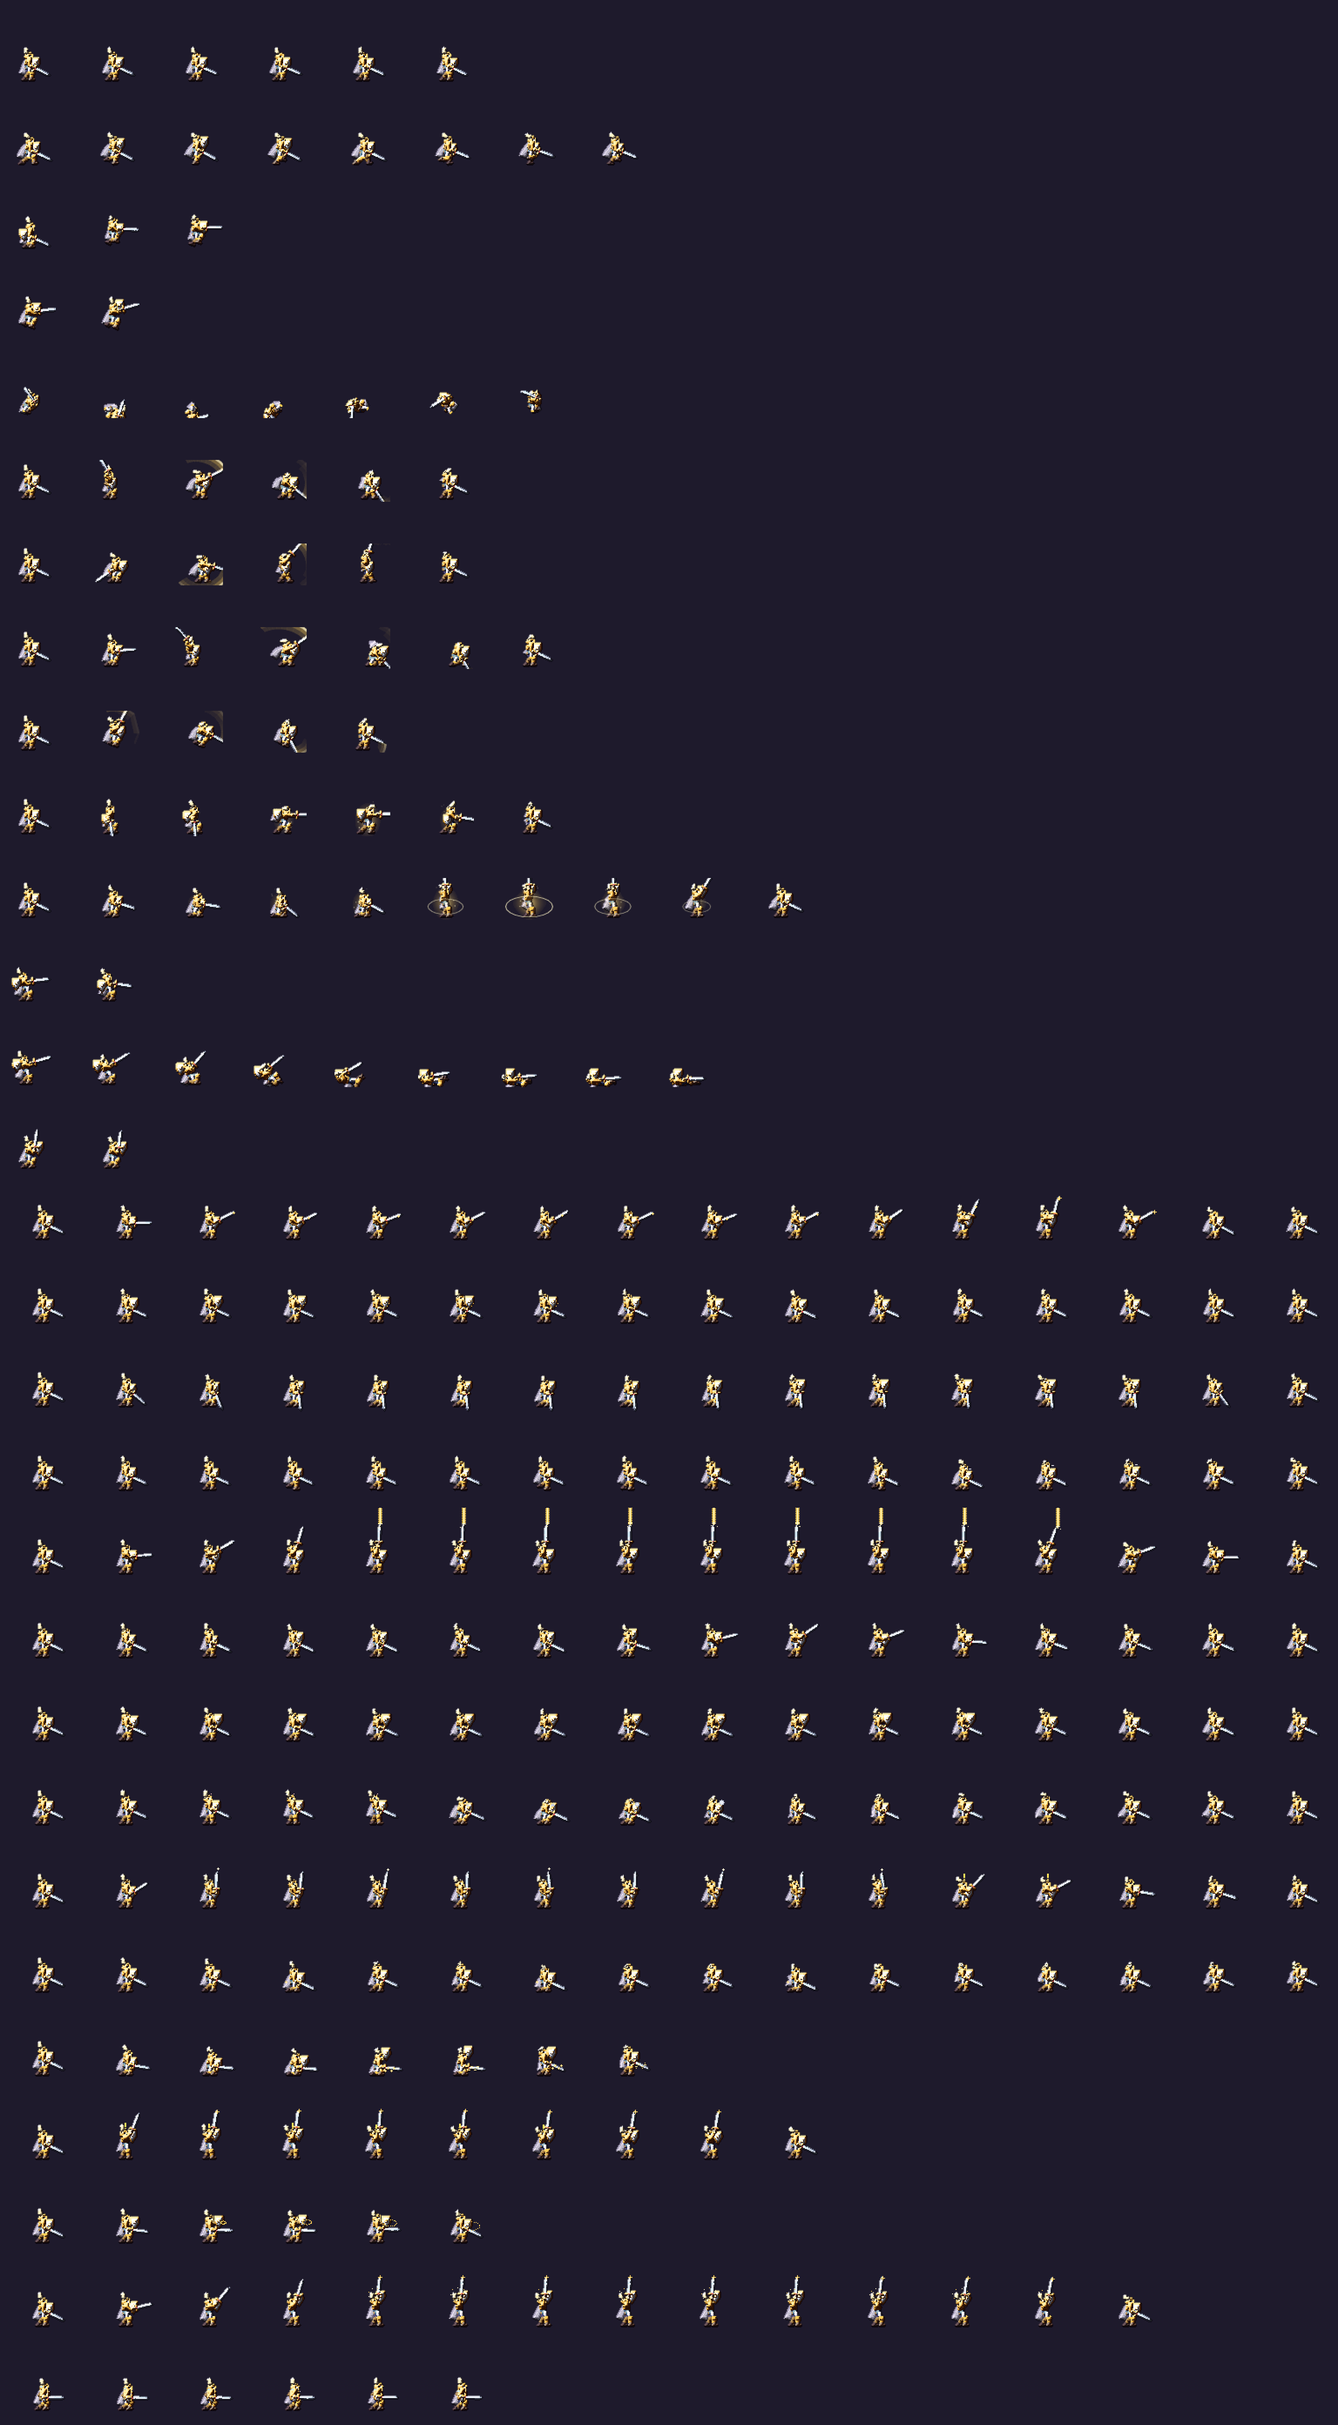
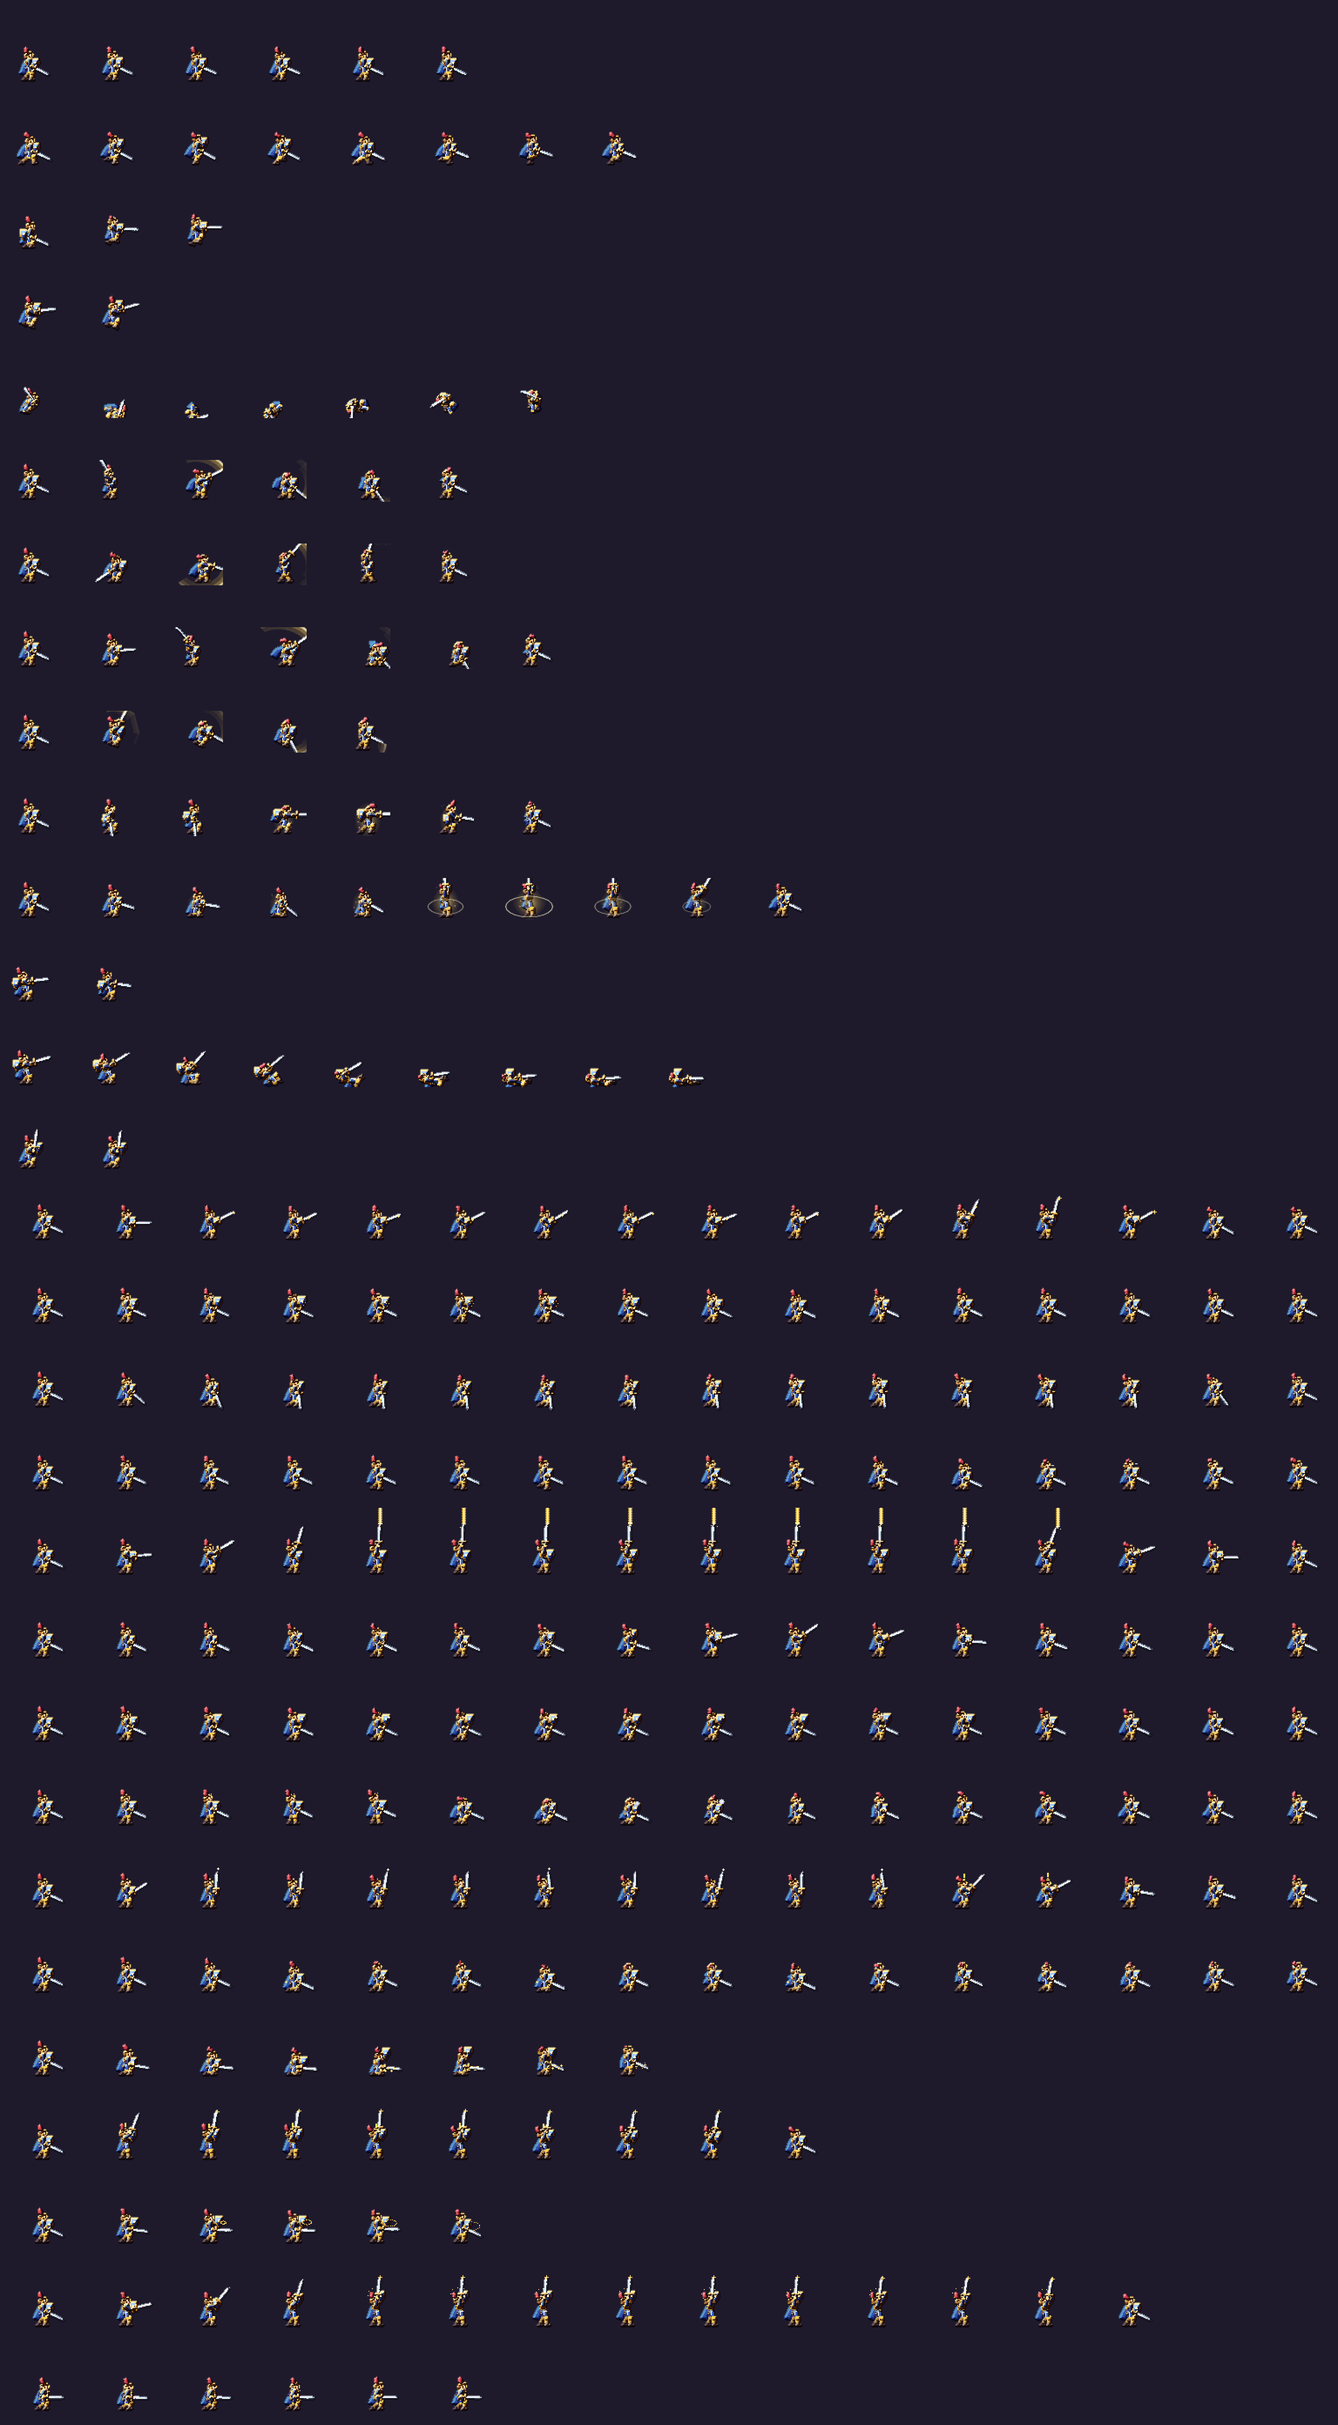
Pixel art fase 3 v2: Paladin recompuesto (capa y escudo azules, sayo marino, cara visible, pluma carmesi), regenerado en todas las poses
Claude-Session: https://claude.ai/code/session_011eeWNo3MRZcztybaatA5Az

diff --git a/tools/art_players/cls_paladin.py b/tools/art_players/cls_paladin.py
@@ -15,7 +15,7 @@ class Paladin(PClass):
     skill_kind = 'thrust'
 
     def setup(self):
-        self.D = Dims(k=1.06, hr=4.1, sw=1.25)
+        self.D = Dims(k=1.06, hr=4.7, sw=1.25)
         self.carry = dict(afA=32, afE=0.85, abA=62, abE=0.78, wa=66, lean=3,
                           guard=dict(afA=100, afE=0.5, abA=92, abE=0.95, wa=172, hy=2, lean=8),
                           guard2=dict(hy=2.6, lean=10, abA=96))
@@ -45,102 +45,102 @@ class Paladin(PClass):
                                                             dict(ffy=-5, bfy=-8, ffa=25, bfa=30)]), (1, 3))
 
     def init_mats(self):
-        mat('gold', '#D9A23A', hl='#FFF2B0')
+        mat('gold', '#E0A93A', hl='#FFF2B0')
         mat('goldL', '#FFD25A', hl='#FFFBE0')
-        mat('cloth', '#EDE9F2', hl='#FFFFFF')
-        mat('steel', '#AEBBD2', hl='#F4F8FF')
-        mat('under', '#3B4A78')
-        mat('leather', '#6A4A3A')
-        mat('dark', '#2A2438')
-        mat('skin', '#E3AE84')
-        mat('plume', '#FFF6C8', hl='#FFFFFF')
-        mat('shield', '#E9ECF6', hl='#FFFFFF')
-        mat('eye', '#8FEFFF', hl='#FFFFFF')
-        mat('crimson', '#B5333F', hl='#FF8A8A')
         mat('goldD', '#B07A22', hl='#F2C45A')
-        mat_back('gold'); mat_back('goldD'); mat_back('under'); mat_back('leather'); mat_back('cloth', 0.8)
+        mat('cloth', '#F2EEE4', hl='#FFFFFF')
+        mat('steel', '#AEBBD2', hl='#F4F8FF')
+        mat('under', '#2B3A72')                      # sayo azul marino: separa la armadura dorada de los miembros
+        mat('blue', '#3C66CF', hl='#A9CBFF')         # capa y campo del escudo
+        mat('leather', '#6A4A3A')
+        mat('dark', '#221C30')
+        mat('skin', '#E8B48C', hl='#FFD9B8')
+        mat('hair', '#7A4B26', hl='#C98A4B')
+        mat('plume', '#C23A48', hl='#FF9AA0')
+        mat('eye', '#BFF3FF', hl='#FFFFFF')
+        mat('crimson', '#B5333F', hl='#FF8A8A')
+        mat_back('gold'); mat_back('goldD'); mat_back('under'); mat_back('leather'); mat_back('cloth', 0.8); mat_back('blue', 0.78); mat_back('steel', 0.75)
 
     def draw(self, X):
         D, p, sk = X.D, X.p, X.sk
         k = D.k
-        # capa
-        ribbons_draw(X, 'cape', 'cloth_b', dome=2.6)
+        # capa azul real (separa la silueta del fondo oscuro y del tabardo claro)
+        ribbons_draw(X, 'cape', 'blue_b', dome=2.6)
         # pierna trasera
         leg(X, sk.hipB, sk.kneeB, sk.ankB, 2.2, 1.8, 1.5, 'under_b', 'leather_b', p.bfa, kneepad='gold_b', greave='gold_b')
-        # torso
+        # torso: sayo azul + peto dorado ahusado a la cintura + cinturon
         poly(X, tp(X, [(-3.0, -0.6), (2.8, -0.6), (3.2, 3.5), (3.3, 7.6), (2.6, 9.6), (-2.4, 9.6), (-3.2, 7), (-3.3, 3)]), 'under', dome=3.0)
-        poly(X, tp(X, [(-3.3, 3.2), (3.0, 3.2), (3.8, 5.2), (3.9, 7.8), (3.0, 9.8), (-2.5, 9.8), (-3.8, 7.4), (-3.9, 4.4)]), 'gold', dome=3.0)
-        poly(X, tp(X, [(-3.2, -0.6), (3.0, -0.6), (3.1, 1.5), (-3.3, 1.5)]), 'leather', dome=1.2)
-        poly(X, tp(X, [(-3.3, 1.2), (-0.6, 1.2), (-0.8, -2.2), (-3.0, -1.6)]), 'gold_b', dome=1.4)
-        # emblema (sol)
-        c = tp(X, [(0.9, 5.4)])[0]
-        circ(X, c, 1.25 * k, 'goldL', tone=4)
-        circ(X, c, 0.6 * k, 'cloth', tone=5)
+        poly(X, tp(X, [(-3.0, 3.4), (2.6, 3.4), (3.9, 5.0), (3.9, 7.8), (3.0, 9.9), (-2.5, 9.9), (-3.8, 7.6), (-3.9, 5.0)]), 'gold', dome=3.0)
+        poly(X, tp(X, [(-3.3, 0.9), (3.3, 0.9), (3.3, 2.5), (-3.3, 2.5)]), 'leather', dome=1.2)
+        poly(X, tp(X, [(0.5, 0.7), (2.5, 0.7), (2.5, 2.7), (0.5, 2.7)]), 'goldL', tone=4)
+        poly(X, tp(X, [(1.0, 1.2), (2.0, 1.2), (2.0, 2.2), (1.0, 2.2)]), 'dark', tone=2)
+        # faldon trasero
+        poly(X, tp(X, [(-3.3, 0.9), (-0.6, 0.9), (-0.8, -2.6), (-3.0, -2.0)]), 'gold_b', dome=1.4)
+        # emblema (sol) en el peto
+        c = tp(X, [(0.9, 6.2)])[0]
+        circ(X, c, 1.4 * k, 'goldD', tone=3)
+        circ(X, c, 0.95 * k, 'goldL', tone=4)
+        circ(X, c, 0.45 * k, 'cloth', tone=5)
+        # reborde del peto
+        poly(X, tp(X, [(-3.0, 3.4), (2.6, 3.4), (3.4, 4.3), (-3.4, 4.3)]), 'goldD', tone=3)
         # pierna delantera
         leg(X, sk.hipF, sk.kneeF, sk.ankF, 2.4, 1.9, 1.6, 'under', 'leather', p.ffa, kneepad='goldL', greave='gold')
-        # tabardo
+        # tabardo blanco con ribete dorado
         poly(X, tp(X, [(0.2, 1.5), (3.3, 1.5), (3.9, -1), (3.6, -4.8), (1.8, -5.8), (0.4, -4.8), (0.0, -1)]), 'cloth', dome=2.0)
+        poly(X, tp(X, [(0.9, 1.0), (2.3, 1.0), (2.2, -4.6), (1.5, -5.2), (0.9, -4.6)]), 'blue', tone=3)
         poly(X, tp(X, [(0.2, -4.0), (3.7, -4.0), (3.5, -4.9), (1.8, -5.8), (0.4, -4.9)]), 'goldL', tone=3)
-        # cinturon con hebilla y faldones (placas colgantes) para dar cintura y volumen a la armadura
-        poly(X, tp(X, [(-3.3, 9.0), (3.4, 9.0), (3.5, 10.3), (-3.3, 10.3)]), 'leather', dome=1.0)
-        poly(X, tp(X, [(0.6, 8.8), (2.4, 8.8), (2.4, 10.5), (0.6, 10.5)]), 'goldL', tone=4)
-        poly(X, tp(X, [(-3.0, 10.2), (-0.4, 10.2), (-0.8, 13.0), (-2.9, 12.6)]), 'goldD', dome=1.2)
-        poly(X, tp(X, [(0.4, 10.2), (3.2, 10.2), (3.0, 13.4), (0.8, 13.2)]), 'gold', dome=1.4)
-        # gorjal + cabeza
-        circ(X, lerp_pt(sk.neck, sk.hip, 0.0), 2.4 * k, 'gold', dome=1.6)
+        # gorjal
+        circ(X, lerp_pt(sk.neck, sk.hip, 0.0), 2.3 * k, 'steel', dome=1.6)
         # brazo trasero con escudo
         self._shield_arm(X)
-        # cabeza: yelmo con cresta, visor en T con ojo luminoso, guardas de mejilla y babera
+        # cabeza: yelmo abierto con la cara visible (ojo, ceja, mandibula), cabello bajo el yelmo, cresta y pluma
         hc = sk.head
         circ(X, hc, D.hr, 'gold', dome=3.6)
-        # cresta que recorre el yelmo (de la frente a la nuca)
-        poly(X, hp(X, [(-3.6, 2.2), (-1.0, 4.3), (2.6, 4.3), (3.6, 2.6), (2.6, 3.0), (-1.0, 3.2), (-3.0, 1.4)]), 'goldL', dome=1.4)
-        # frente y cejas del yelmo
-        poly(X, hp(X, [(0.0, 2.2), (4.2, 2.0), (4.4, 1.0), (0.0, 1.2)]), 'goldD', tone=3)
-        # visor en T: ranura horizontal oscura + ojo luminoso
-        poly(X, hp(X, [(0.2, 1.7), (4.7, 1.7), (4.7, -0.7), (0.2, -0.7)]), 'dark', tone=1)
-        poly(X, hp(X, [(1.7, 1.3), (4.3, 1.3), (4.3, -0.3), (1.7, -0.3)]), 'eye', tone=5)
+        poly(X, hp(X, [(0.9, 2.3), (4.5, 1.9), (4.9, -0.6), (4.5, -2.8), (1.8, -3.4), (0.9, -1.0)]), 'skin', dome=1.2)       # cara
+        poly(X, hp(X, [(1.6, -1.6), (4.6, -1.6), (4.4, -3.0), (1.8, -3.5)]), 'skin', tone=2)                                 # mandibula en sombra
+        poly(X, hp(X, [(2.4, 1.6), (4.7, 1.3), (4.7, 0.8), (2.4, 1.1)]), 'hair', tone=2)                                      # ceja
+        poly(X, hp(X, [(3.0, 0.7), (4.2, 0.7), (4.2, -0.5), (3.0, -0.5)]), 'dark', tone=1)                                    # ojo
+        circ(X, hpt(X, 3.1, 0.2), 0.35 * k, 'eye', tone=5)                                                                    # brillo del ojo
+        # frente del yelmo con borde dorado y cresta
+        poly(X, hp(X, [(-4.4, 1.2), (-2.0, 4.6), (2.0, 4.8), (4.9, 2.3), (4.7, 1.5), (0.9, 2.3), (-0.6, 0.6)]), 'gold', dome=2.2)
+        poly(X, hp(X, [(-3.4, 2.6), (-0.8, 4.9), (2.8, 4.9), (4.4, 3.0), (2.6, 3.5), (-0.8, 3.7)]), 'goldL', dome=1.4)
+        # nuca y cabello bajo el yelmo
+        poly(X, hp(X, [(-4.4, 0.8), (-0.6, 0.6), (-0.4, -2.6), (-2.2, -4.0), (-4.2, -2.4)]), 'hair', dome=1.4)
+        # guarda de mejilla
+        poly(X, hp(X, [(-1.6, 0.6), (0.9, 0.9), (1.5, -1.2), (0.6, -3.4), (-1.2, -3.0)]), 'goldD', dome=1.6)
         # barra nasal
-        poly(X, hp(X, [(3.3, 3.2), (4.2, 3.2), (4.2, -3.2), (3.3, -3.2)]), 'goldL', tone=4)
-        # guarda de mejilla y babera (parte baja de la cara)
-        poly(X, hp(X, [(-1.8, -0.4), (2.8, -0.4), (3.6, -1.0), (3.2, -3.2), (-0.6, -3.6), (-2.4, -2.4)]), 'gold', dome=1.8)
-        poly(X, hp(X, [(0.4, -1.4), (3.4, -1.4), (3.2, -1.9), (0.4, -1.9)]), 'dark', tone=2)
-        # remache
-        circ(X, hpt(X, -1.0, 1.8), 0.45 * k, 'cloth', tone=5)
-        # pluma
+        poly(X, hp(X, [(4.1, 3.0), (5.0, 2.8), (4.8, -0.2), (4.1, -0.2)]), 'goldL', tone=4)
         ribbons_draw(X, 'plume', 'plume', dome=1.6)
-        # hombrera delantera
-        circ(X, (sk.shF[0] - 0.2, sk.shF[1] + 1.4), 3.0 * k, 'goldD', dome=2.4)
-        circ(X, sk.shF, 3.0 * k, 'gold', dome=2.8)
-        circ(X, (sk.shF[0] + 0.5, sk.shF[1] - 0.6), 1.6 * k, 'goldL', dome=1.6)
-        circ(X, (sk.shF[0] + 0.9, sk.shF[1] + 0.9), 0.55 * k, 'cloth', tone=5)
-        # brazo delantero
-        arm(X, sk.shF, sk.elbF, sk.handF, 1.8, 1.55, 1.35, 'gold', glove='goldL', bracer='goldL')
+        # hombrera delantera en capas
+        circ(X, (sk.shF[0] - 0.2, sk.shF[1] + 1.2), 3.2 * k, 'goldD', dome=2.4)
+        circ(X, sk.shF, 3.1 * k, 'gold', dome=2.8)
+        circ(X, (sk.shF[0] + 0.4, sk.shF[1] - 0.7), 1.7 * k, 'goldL', dome=1.6)
+        # brazo delantero: manga azul, brazal dorado, guantelete de cuero
+        arm(X, sk.shF, sk.elbF, sk.handF, 1.7, 1.5, 1.3, 'under', glove='leather', bracer='gold')
         # espada
         self._sword(X)
 
     def _shield_arm(self, X):
         p, sk, k = X.p, X.sk, X.D.k
-        arm(X, sk.shB, sk.elbB, sk.handB, 1.7, 1.5, 1.3, 'gold_b', glove='gold_b', bracer='gold_b')
-        circ(X, sk.shB, 2.5 * k, 'gold', dome=2.4)
+        arm(X, sk.shB, sk.elbB, sk.handB, 1.6, 1.45, 1.3, 'under_b', glove='leather_b', bracer='gold_b')
+        circ(X, sk.shB, 2.5 * k, 'gold_b', dome=2.4)
         h = sk.handB
         ctr = (h[0] + 1.6 * k, h[1] - 0.2)
         def sp(pts, s=1.0):
             return [(ctr[0] + x * s * k, ctr[1] + y * s * k) for x, y in pts]
-        outer = [(-4.6, -6.6), (4.6, -6.6), (4.8, 0.2), (0, 7.6), (-4.8, 0.2)]
-        poly(X, sp(outer), 'gold', dome=3.0)
-        poly(X, sp(outer, 0.74), 'shield', dome=3.0)
-        circ(X, sp([(0, -1.2)])[0], 1.9 * k, 'goldL', dome=1.6)
-        circ(X, sp([(0, -1.2)])[0], 0.8 * k, 'cloth', tone=5)
+        outer = [(-4.2, -6.2), (4.2, -6.2), (4.4, 0.2), (0, 7.2), (-4.4, 0.2)]
+        poly(X, sp(outer), 'gold', dome=3.0)                 # borde dorado
+        poly(X, sp(outer, 0.72), 'blue', dome=3.0)            # campo azul
+        circ(X, sp([(0, -0.8)])[0], 1.7 * k, 'goldL', dome=1.6)
+        circ(X, sp([(0, -0.8)])[0], 0.7 * k, 'cloth', tone=5)
 
     def _sword(self, X):
         W = lambda pts: wpoly(X, pts)
         poly(X, W([(2.2, -1.5), (17.0, -1.6), (20.6, 0), (17.0, 1.6), (2.2, 1.5)]), 'steel', dome=1.8)
         poly(X, W([(3.0, -0.35), (17.5, -0.35), (17.5, 0.35), (3.0, 0.35)]), 'steel', tone=5)
         poly(X, W([(1.2, -4.6), (2.9, -3.3), (2.9, 3.3), (1.2, 4.6), (0.6, 3.3), (0.6, -3.3)]), 'gold', dome=1.4)
-        circ(X, wpt(X, 1.9, 0), 0.8 * X.D.k, 'crimson', tone=4)
         poly(X, W([(-2.4, -0.9), (1.5, -0.9), (1.5, 0.9), (-2.4, 0.9)]), 'leather', dome=1.0)
-        circ(X, wpt(X, -3.2, 0), 1.25 * X.D.k, 'goldL', dome=1.2)
+        circ(X, wpt(X, -3.2, 0), 1.3 * X.D.k, 'goldL', dome=1.2)
 
     def fx(self, X, name, i, n):
         aura_fx(self, X, name, i, n)

diff --git a/docs/PIXEL_ART_FASE3.md b/docs/PIXEL_ART_FASE3.md
@@ -1,10 +1,21 @@
 # Pixel art, fase 3 (rediseño real, piloto: Paladín del Alba)
 
 Cadena reproducible (comprobada: reproduce las hojas anteriores con 0 px de diferencia):
-`python3 tools/art_players/build_all.py paladin --nopreview` → `python3 tools/art/make_smear.py` → `python3 tools/art/make_unarmed.py --only paladin` → `python3 tools/art/polish.py pl_paladin.png plx_paladin.png splash_paladin.png`.
+`python3 tools/art_players/build_all.py paladin --nopreview` -> `python3 tools/art/make_smear.py` -> `python3 tools/art/make_unarmed.py --only paladin` -> `python3 tools/art/polish.py pl_paladin.png plx_paladin.png splash_paladin.png`.
 
-Rediseño en `tools/art_players/cls_paladin.py` (dibujo vectorial por código sobre el rig, no a mano píxel a píxel): yelmo con cresta, visor en T con ojo luminoso, barra nasal, guardas de mejilla y babera, remache; cinturón con hebilla y faldones; hombrera en capas con remache; guarda de espada alada con gema carmesí. Todas las poses se regeneran con el mismo esqueleto: JSON (fotogramas, tiempos, cajas, anclaje de mano) idéntico.
+## Rediseño v2 (`tools/art_players/cls_paladin.py`, dibujo vectorial por código sobre el rig; no es dibujo a mano píxel a píxel)
+Problema del piloto v1: todo era dorado sobre dorado (cara, brazos, torso) y la capa/escudo claros se confundían: poca separación de materiales. (Además el cinturón v1 estaba mal colocado a la altura del cuello; corregido.)
+- Composición/materiales: armadura dorada solo en yelmo, peto, hombreras y brazales; **sayo azul marino** en brazos y piernas; **capa azul real**; **escudo con borde dorado, campo azul y sol**; tabardo blanco con banda azul y ribete dorado; guanteletes y botas de cuero; **pluma carmesí**.
+- Cabeza algo mayor (radio 4,1 -> 4,7 px): yelmo abierto con cara visible (ojo, ceja, mandíbula), cabello castaño bajo el yelmo, cresta dorada, guarda de mejilla, barra nasal.
+- Peto ahusado a la cintura con cinturón y hebilla, faldón trasero, emblema solar; hombrera en capas; guarda de espada alada.
+- Todas las poses se regeneran con el mismo esqueleto: JSON (fotogramas, tiempos, cajas, anclaje de mano) idéntico al anterior.
 
-Pruebas: `anim_sheets_check.py` (siluetas con variación ≤12 % por fotograma, pies/anclas estables), anim_test, arsenal, combate, HUD, UI; capturas reales del banco headless (preparación y partida). Antes/después: `docs/capturas_arte/paladin_fase3_antes_arriba_despues_abajo.png`.
+## Tamaño visual
+Pantalla de 1152x540 = interna 384x180 a x3; el personaje mide ~28 px de alto (84 px en pantalla). El límite no es la resolución sino la composición: con el mismo tamaño se logró más legibilidad con contraste de materiales y colores. No se cambió escala ni cámara.
 
-Limitación honesta: la mejora es visible pero moderada; con cabezas de ~8 px no cabe un rostro detallado. No hay herramienta de dibujo manual: el rediseño es código. Quedan sin rediseñar las otras 9 clases, enemigos, jefes, armas secundarias y efectos.
+## Pruebas (banco headless, no Android/Windows reales)
+`anim_sheets_check.py` (siluetas, pies/anclas estables; variación admitida ≤12 % en clases rediseñadas), `anim_test`, `arsenal_test`, `combat_test`, `hud_test`, `ui_test`.
+Capturas: `docs/capturas_arte/paladin_fase3_captura_partida_real.png` (partida real del banco), `paladin_fase3_escala_juego_antes_arriba_despues_abajo.png` (sprites antes/después a escala de juego sobre un fondo real: montaje, no captura viva), `paladin_fase3_antes_arriba_despues_abajo.png` (v1).
+
+## Pendiente
+Otras 9 clases, enemigos, jefes, armas secundarias y efectos no rediseñados.
